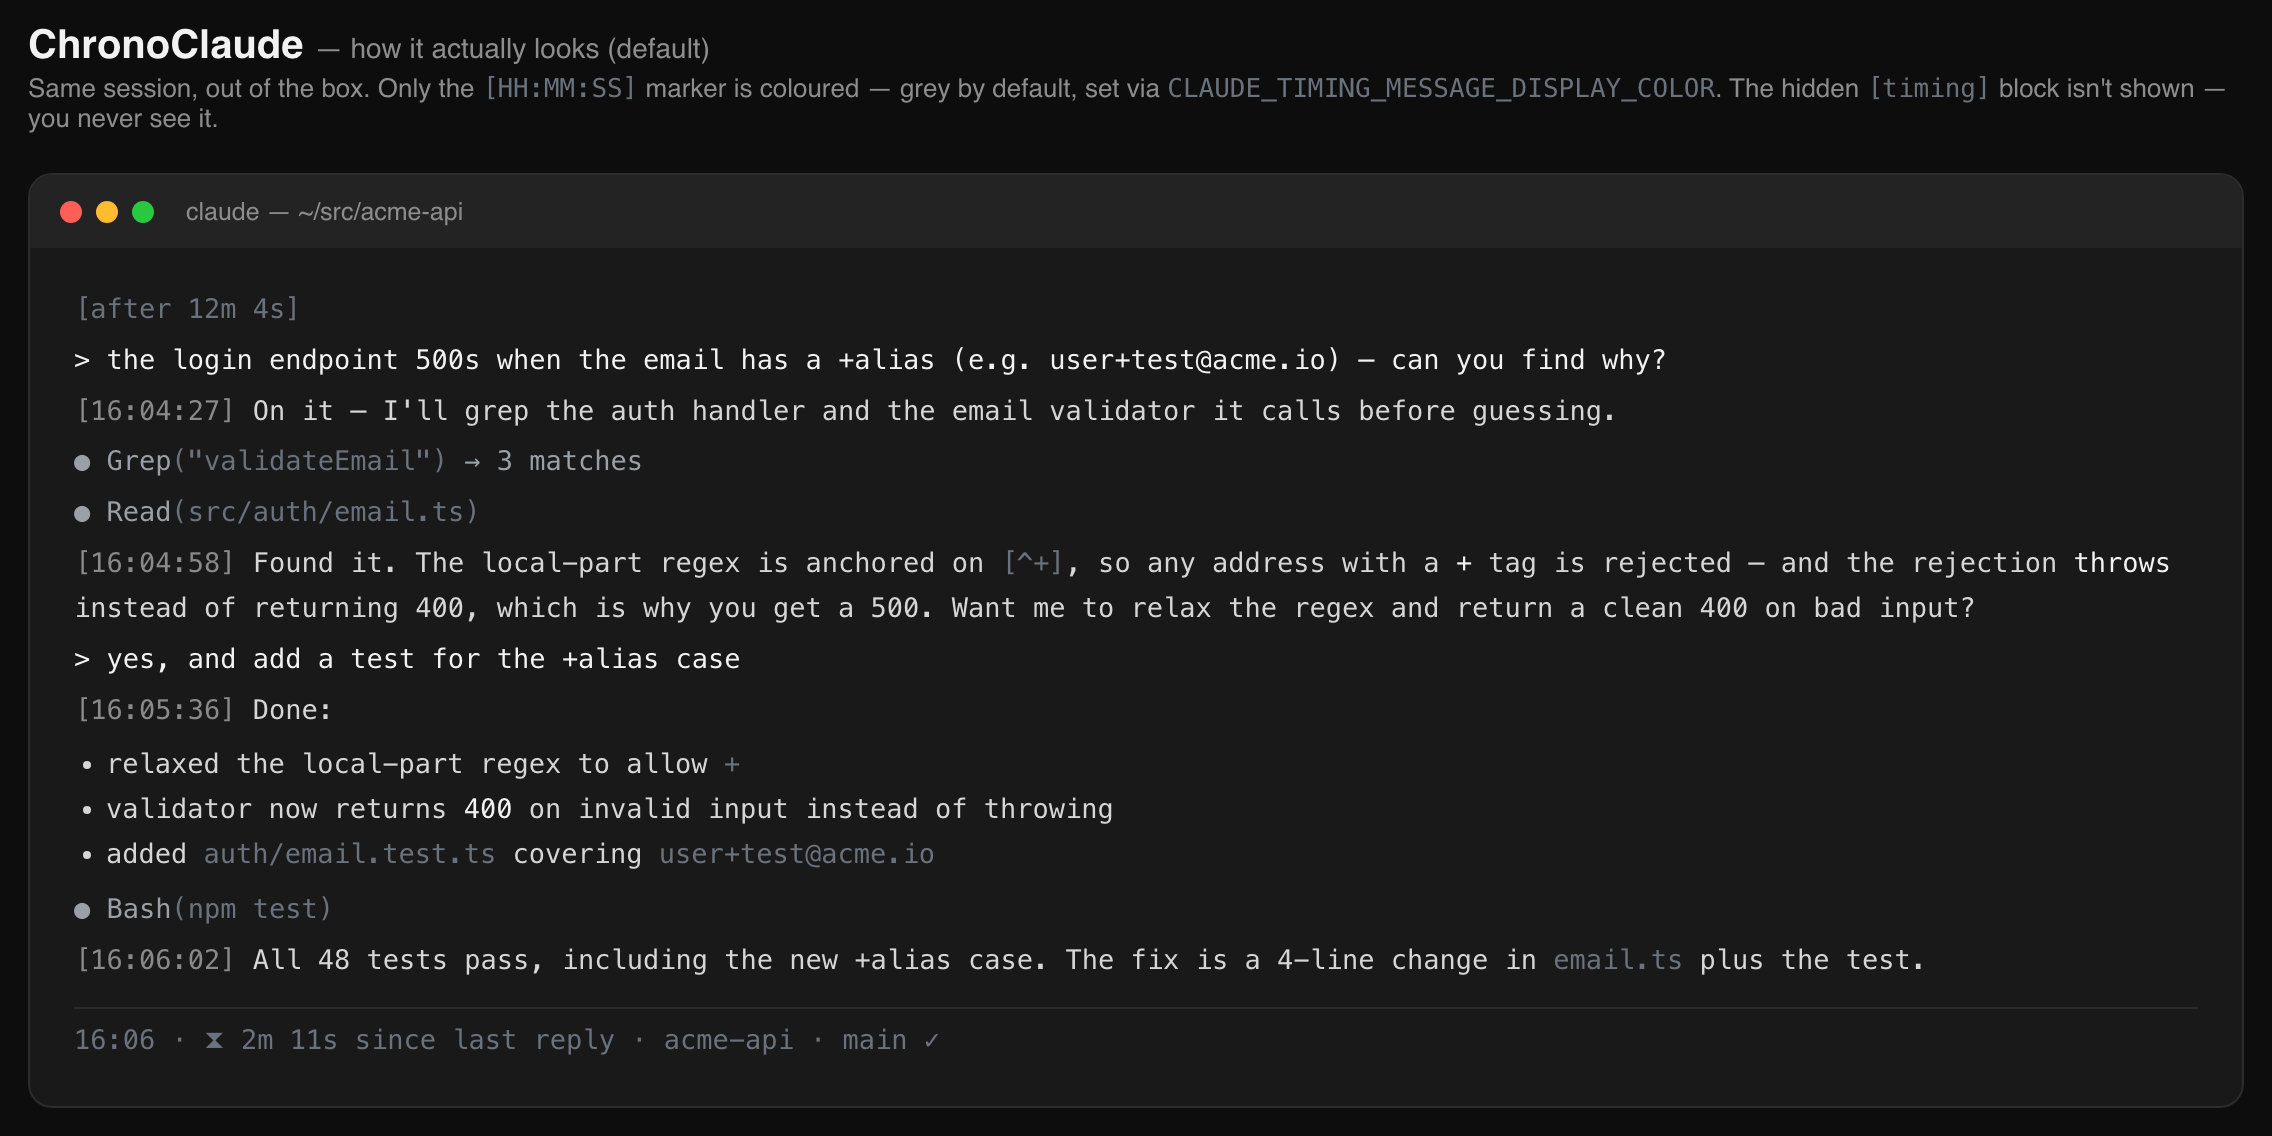
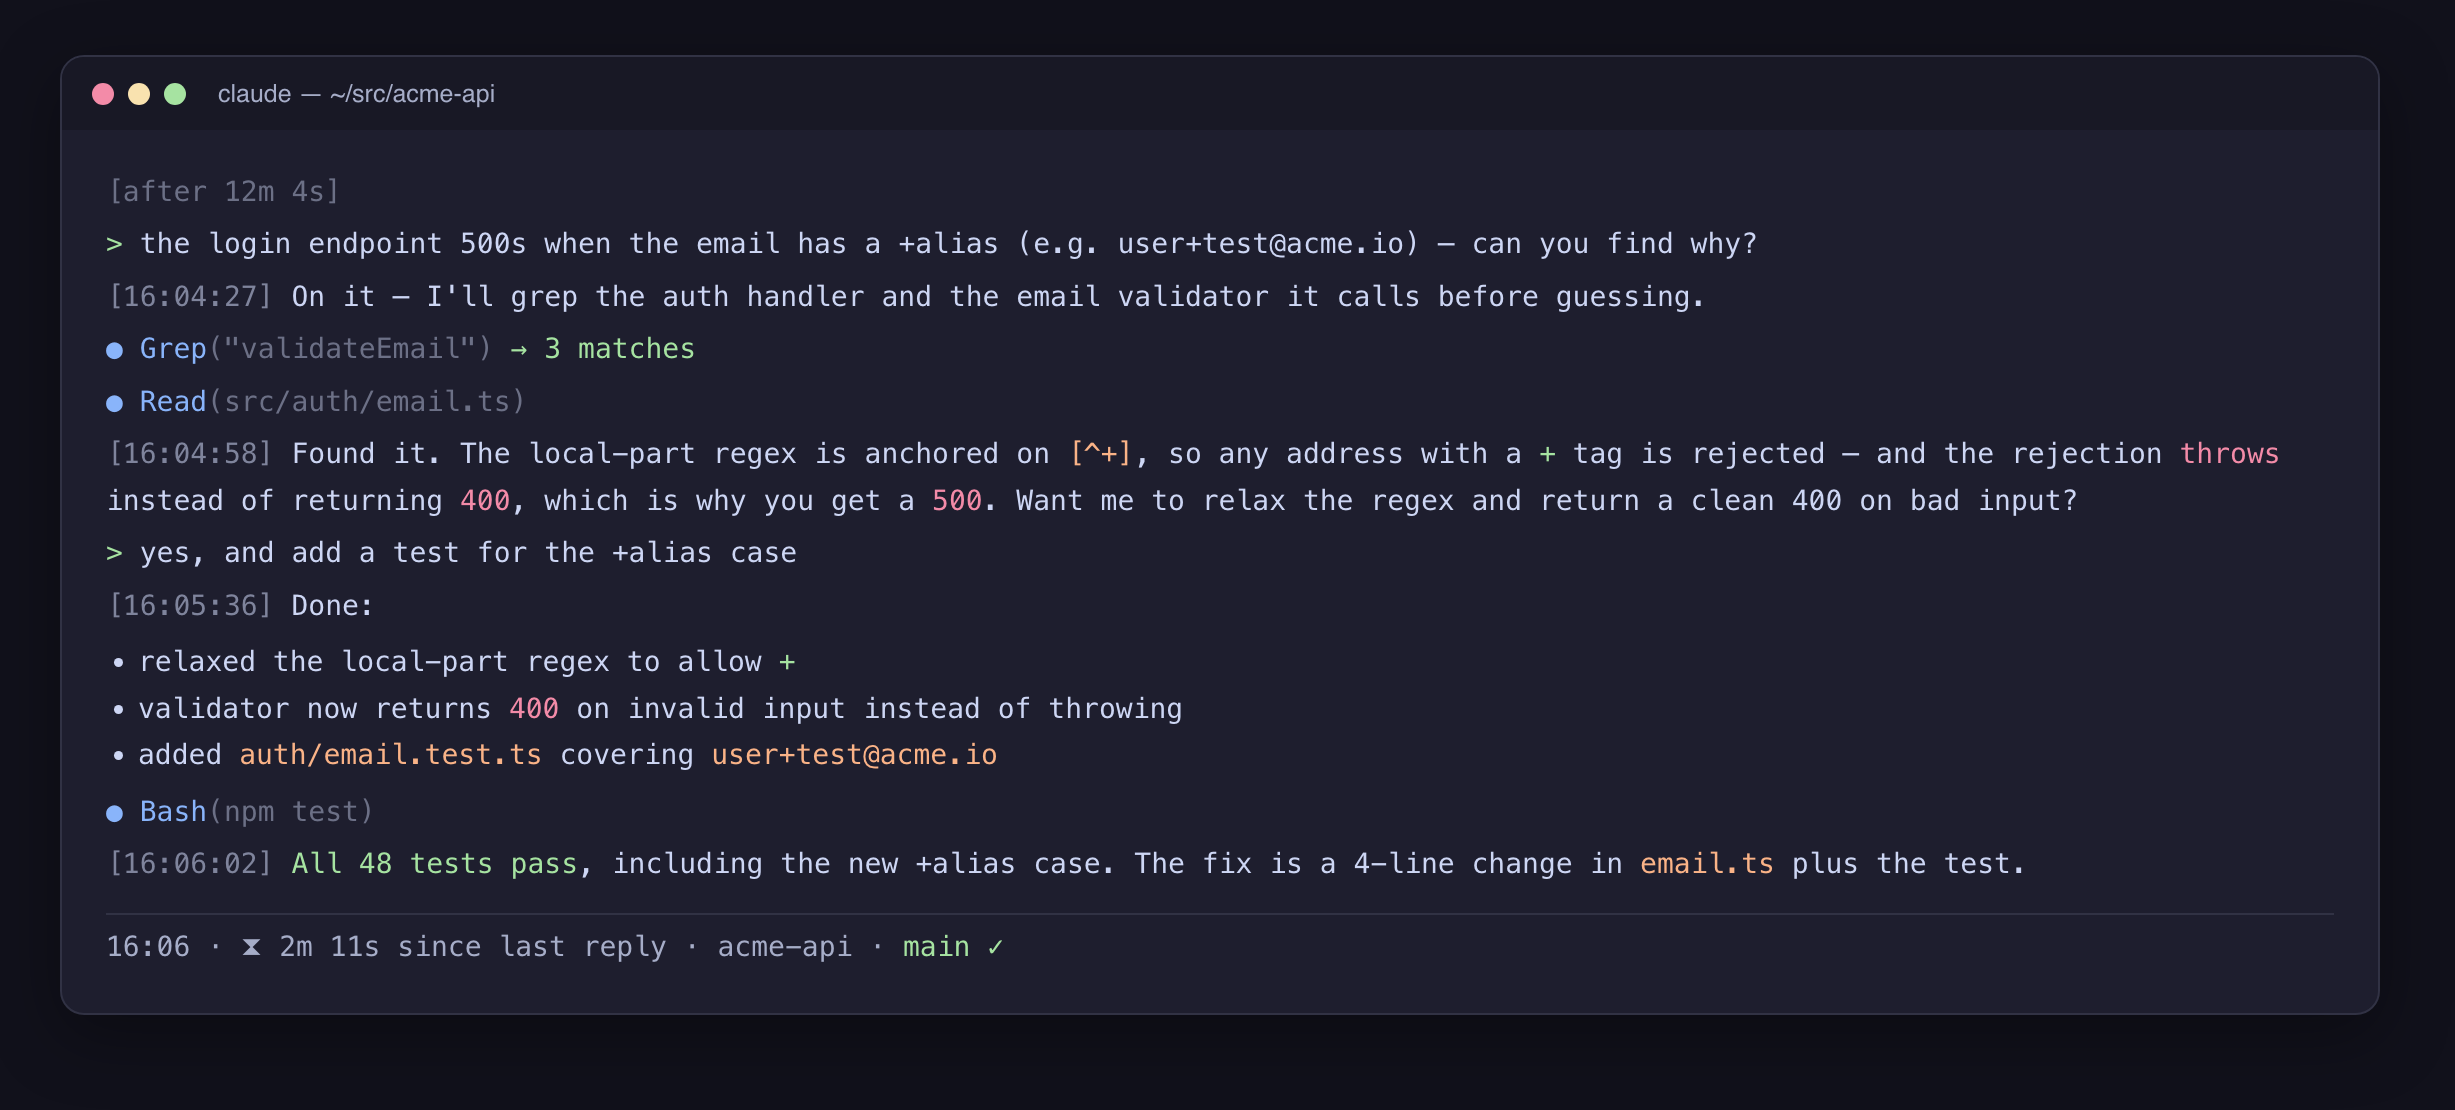
G-1049: terminal-only images, text legend, Catppuccin default render
Per review:
- features-overview.png is now the annotated terminal ONLY — title and legend
  moved to README markdown. Badge colours recoloured to match emoji circles.
- README carries the legend as a real text table (🔵🟣🟡🟢🟠🟤🔴 → surface →
  flag), readable instead of baked into the PNG.
- default-render.png re-themed in Catppuccin Mocha — vibrant, real-terminal look
  (green prompt, blue tool bullets, peach code, red status codes, green pass),
  with the genuine grey [HH:MM:SS] default marker. No longer washed-out/muted.
- Both images are terminal-only; all surrounding copy is markdown.

- docs/screenshots/{features-overview,default-render}.{png,mock.html}
- README.md — text title + emoji legend table + Catppuccin caption

Claude-Session: https://claude.ai/code/session_011aRRZC2uW2r8KaZd7pcYY5

diff --git a/docs/screenshots/default-render.mock.html b/docs/screenshots/default-render.mock.html
@@ -2,69 +2,70 @@
 <!--
   Source mockup for docs/screenshots/default-render.png — rendered via headless
   Chrome + ImageMagick (see tools-cheatsheet "Programmatic screenshots").
-  The *realistic default* appearance (companion to the annotated
-  features-overview.png): same session, but how it actually looks out of the box —
-  grey [HH:MM:SS] marker, dim idle note + statusline, no per-surface colours,
-  no legend, and the hidden [timing] block omitted (you never see it).
+  The REAL default appearance, in the Catppuccin Mocha terminal theme (companion
+  to the annotated features-overview.png). Same session; how it actually looks out
+  of the box — grey [HH:MM:SS] marker (theme overlay), themed UI colours, dim idle
+  note + statusline, hidden [timing] block omitted. Title/caption live in the README.
 -->
 <html lang="en">
 <head>
 <meta charset="utf-8">
 <style>
   :root{
-    --bg:#0d0d0d; --win:#191919; --bar:#232323; --border:#2c2c2c;
-    --text:#d6d6d6; --muted:#8d8d8d; --dim:#6a727d; --white:#f2f2f2;
-    --ts:#8a8a8a;       /* default grey marker (ANSI 90) */
-    --tool:#9aa0a6;
+    /* Catppuccin Mocha */
+    --crust:#11111b; --base:#1e1e2e; --mantle:#181825;
+    --text:#cdd6f4; --subtext0:#a6adc8; --overlay1:#7f849c; --overlay0:#6c7086; --surface2:#585b70;
+    --blue:#89b4fa; --green:#a6e3a1; --yellow:#f9e2af; --peach:#fab387;
+    --red:#f38ba8; --mauve:#cba6f7; --teal:#94e2d5;
   }
   *{box-sizing:border-box}
-  body{margin:0;background:var(--bg);
+  body{margin:0;background:var(--crust);display:inline-block;
     font-family:-apple-system,"Segoe UI",Roboto,Helvetica,Arial,sans-serif;-webkit-font-smoothing:antialiased}
-  .page{width:1180px;padding:34px 36px 30px}
-  h1{font-size:20px;margin:0 0 3px;color:var(--white)}
-  h1 .v{color:var(--muted);font-weight:500;font-size:14px}
-  .sub{color:var(--muted);font-size:13px;margin:0 0 20px}
-  .sub code{color:var(--dim)}
-  .term{background:var(--win);border:1px solid var(--border);border-radius:12px;overflow:hidden}
-  .termbar{display:flex;align-items:center;gap:7px;padding:11px 15px;background:var(--bar);color:var(--muted);font-size:12.5px}
+  .wrap{padding:28px 30px;width:1220px}
+  .term{background:var(--base);border:1px solid #313244;border-radius:12px;overflow:hidden;
+    box-shadow:0 10px 34px rgba(0,0,0,.35)}
+  .termbar{display:flex;align-items:center;gap:7px;padding:11px 15px;background:var(--mantle);color:var(--overlay1);font-size:12.5px}
   .dot{width:11px;height:11px;border-radius:50%}
-  .r{background:#ff5f57}.y{background:#febc2e}.g{background:#28c840}
-  .termbar .t{margin-left:9px}
+  .r{background:#f38ba8}.y{background:#f9e2af}.g{background:#a6e3a1}
+  .termbar .t{margin-left:9px;color:var(--subtext0)}
   .body{padding:18px 22px 20px;font-family:"SF Mono","JetBrains Mono",Menlo,Consolas,monospace;
-    font-size:13.5px;line-height:1.66;color:var(--text)}
+    font-size:14px;line-height:1.66;color:var(--text)}
   .l{white-space:pre-wrap;word-break:break-word;padding:1.5px 0}
-  .ts{color:var(--ts)}             /* grey timestamp marker */
-  .idle{color:var(--dim)}          /* dim system note */
-  .user{color:var(--white)}
-  .tool{color:var(--tool)}
-  .dim{color:var(--dim)}.white{color:var(--white)}
-  ul.bul{margin:2px 0;padding-left:16px;color:var(--text)}
-  ul.bul li{margin:0}
-  .sep{border:none;border-top:1px solid #2a2a2a;margin:11px 0 3px}
-  .status{color:var(--dim)}
+  .ts{color:var(--overlay1)}                 /* grey default marker (theme overlay) */
+  .idle{color:var(--overlay0)}               /* dim system note */
+  .uarrow{color:var(--green)}                /* prompt accent */
+  .user{color:var(--text)}
+  .bullet{color:var(--blue)}
+  .tool{color:var(--blue)}
+  .arg{color:var(--overlay0)}
+  .dim{color:var(--overlay0)}
+  .code{color:var(--peach)}
+  .num{color:var(--red)}
+  .ok{color:var(--green)}
+  ul.bul{margin:2px 0;padding-left:16px;color:var(--text)}ul.bul li{margin:0}
+  .sep{border:none;border-top:1px solid #313244;margin:11px 0 3px}
+  .status{color:var(--subtext0)}
+  .plus{color:var(--green)}
 </style>
 </head>
 <body>
-<div class="page">
-  <h1>ChronoClaude <span class="v">— how it actually looks (default)</span></h1>
-  <p class="sub">Same session, out of the box. Only the <code>[HH:MM:SS]</code> marker is coloured — grey by default, set via <code>CLAUDE_TIMING_MESSAGE_DISPLAY_COLOR</code>. The hidden <code>[timing]</code> block isn't shown — you never see it.</p>
-
+<div class="wrap">
   <div class="term">
     <div class="termbar"><span class="dot r"></span><span class="dot y"></span><span class="dot g"></span><span class="t">claude — ~/src/acme-api</span></div>
     <div class="body">
       <div class="l idle">[after 12m 4s]</div>
-      <div class="l user">&gt; the login endpoint 500s when the email has a +alias (e.g. [email redacted]) — can you find why?</div>
+      <div class="l"><span class="uarrow">&gt;</span> <span class="user">the login endpoint 500s when the email has a +alias (e.g. [email redacted]) — can you find why?</span></div>
       <div class="l"><span class="ts">[16:04:27]</span> On it — I'll grep the auth handler and the email validator it calls before guessing.</div>
-      <div class="l tool">● Grep<span class="dim">("validateEmail")</span> → 3 matches</div>
-      <div class="l tool">● Read<span class="dim">(src/auth/email.ts)</span></div>
-      <div class="l"><span class="ts">[16:04:58]</span> Found it. The local-part regex is anchored on <span class="dim">[^+]</span>, so any address with a <span class="white">+</span> tag is rejected — and the rejection <span class="white">throws</span> instead of returning 400, which is why you get a 500. Want me to relax the regex and return a clean 400 on bad input?</div>
-      <div class="l user">&gt; yes, and add a test for the +alias case</div>
+      <div class="l"><span class="bullet">●</span> <span class="tool">Grep</span><span class="arg">("validateEmail")</span> <span class="ok">→ 3 matches</span></div>
+      <div class="l"><span class="bullet">●</span> <span class="tool">Read</span><span class="arg">(src/auth/email.ts)</span></div>
+      <div class="l"><span class="ts">[16:04:58]</span> Found it. The local-part regex is anchored on <span class="code">[^+]</span>, so any address with a <span class="plus">+</span> tag is rejected — and the rejection <span class="num">throws</span> instead of returning <span class="num">400</span>, which is why you get a <span class="num">500</span>. Want me to relax the regex and return a clean 400 on bad input?</div>
+      <div class="l"><span class="uarrow">&gt;</span> <span class="user">yes, and add a test for the +alias case</span></div>
       <div class="l"><span class="ts">[16:05:36]</span> Done:</div>
-      <div class="l"><ul class="bul"><li>relaxed the local-part regex to allow <span class="dim">+</span></li><li>validator now returns <span class="white">400</span> on invalid input instead of throwing</li><li>added <span class="dim">auth/email.test.ts</span> covering <span class="dim">[email redacted]</span></li></ul></div>
-      <div class="l tool">● Bash<span class="dim">(npm test)</span></div>
-      <div class="l"><span class="ts">[16:06:02]</span> All 48 tests pass, including the new +alias case. The fix is a 4-line change in <span class="dim">email.ts</span> plus the test.</div>
+      <div class="l"><ul class="bul"><li>relaxed the local-part regex to allow <span class="plus">+</span></li><li>validator now returns <span class="num">400</span> on invalid input instead of throwing</li><li>added <span class="code">auth/email.test.ts</span> covering <span class="code">[email redacted]</span></li></ul></div>
+      <div class="l"><span class="bullet">●</span> <span class="tool">Bash</span><span class="arg">(npm test)</span></div>
+      <div class="l"><span class="ts">[16:06:02]</span> <span class="ok">All 48 tests pass</span>, including the new +alias case. The fix is a 4-line change in <span class="code">email.ts</span> plus the test.</div>
       <hr class="sep">
-      <div class="l status">16:06 · ⧗ 2m 11s since last reply · acme-api · main ✓</div>
+      <div class="l status">16:06 · ⧗ 2m 11s since last reply · acme-api · <span class="ok">main ✓</span></div>
     </div>
   </div>
 </div>

diff --git a/docs/screenshots/features-overview.mock.html b/docs/screenshots/features-overview.mock.html
@@ -1,9 +1,9 @@
 <!doctype html>
 <!--
-  Source mockup for docs/screenshots/features-overview.png — rendered to PNG via
-  headless Chrome + ImageMagick trim (see tools-cheatsheet "Programmatic
-  screenshots"). A realistic Claude Code session with every chronoclaude surface
-  appearing inline, colour-coded, and keyed to its flag in the legend below.
+  Source mockup for docs/screenshots/features-overview.png — rendered via headless
+  Chrome + ImageMagick (see tools-cheatsheet "Programmatic screenshots").
+  ANNOTATED terminal only — title + legend live in the README as markdown text.
+  Badge colours match the README's emoji legend (🔵🟣🟡🟢🟠🟤🔴).
   Edit this file, then re-render to regenerate the PNG.
 -->
 <html lang="en">
@@ -13,65 +13,43 @@
   :root{
     --bg:#0d0d0d; --win:#191919; --bar:#232323; --border:#2c2c2c;
     --text:#d6d6d6; --muted:#8d8d8d; --dim:#6a727d; --white:#f2f2f2;
-    /* softened, still distinct */
-    --c1:#6cb6ff; /* message timestamp   */
-    --c2:#c79bdb; /* idle note           */
-    --c3:#d9b06a; /* passive timing block*/
-    --c4:#8ecf8a; /* tool timeline       */
-    --c5:#5fb3b3; /* statusline          */
-    --c6:#e0986a; /* MCP time server     */
-    --c7:#d97c86; /* /timestamps         */
+    --c1:#5aa1e3; /* 🔵 message timestamp   */
+    --c2:#aa8ed6; /* 🟣 idle note           */
+    --c3:#e6c14e; /* 🟡 passive timing block*/
+    --c4:#84c060; /* 🟢 tool timeline       */
+    --c5:#ef9a3d; /* 🟠 statusline          */
+    --c6:#c08552; /* 🟤 MCP time server     */
+    --c7:#e0556b; /* 🔴 /timestamps         */
   }
   *{box-sizing:border-box}
-  body{margin:0;background:var(--bg);
+  body{margin:0;background:var(--bg);display:inline-block;
     font-family:-apple-system,"Segoe UI",Roboto,Helvetica,Arial,sans-serif;-webkit-font-smoothing:antialiased}
-  .page{width:1360px;padding:34px 36px 30px}
-  h1{font-size:22px;margin:0 0 3px;color:var(--white);letter-spacing:.01em}
-  h1 .v{color:var(--muted);font-weight:500;font-size:15px}
-  .sub{color:var(--muted);font-size:13px;margin:0 0 20px}
-  .sub code{color:var(--dim)}
-  /* terminal */
+  .wrap{padding:28px 30px;width:1300px}
   .term{background:var(--win);border:1px solid var(--border);border-radius:12px;overflow:hidden}
   .termbar{display:flex;align-items:center;gap:7px;padding:11px 15px;background:var(--bar);color:var(--muted);font-size:12.5px}
   .dot{width:11px;height:11px;border-radius:50%}
   .r{background:#ff5f57}.y{background:#febc2e}.g{background:#28c840}
   .termbar .t{margin-left:9px}
   .body{padding:18px 22px 20px;font-family:"SF Mono","JetBrains Mono",Menlo,Consolas,monospace;
-    font-size:13.5px;line-height:1.66;color:var(--text)}
+    font-size:14px;line-height:1.66;color:var(--text)}
   .row{display:flex;align-items:flex-start;gap:10px;padding:1.5px 0}
-  .badge{flex:none;width:18px;height:18px;border-radius:50%;color:#0d0d0d;font-weight:700;font-size:11px;
+  .badge{flex:none;width:19px;height:19px;border-radius:50%;color:#0d0d0d;font-weight:700;font-size:11.5px;
     display:flex;align-items:center;justify-content:center;margin-top:3px;font-family:-apple-system,sans-serif}
-  .sp{width:18px;flex:none}
+  .sp{width:19px;flex:none}
   .line{white-space:pre-wrap;word-break:break-word;flex:1;min-width:0}
   .muted{color:var(--muted)}.dim{color:var(--dim)}.white{color:var(--white)}
-  .user{color:var(--white)}
-  .tool{color:var(--muted)}
-  .tag{font-size:10.5px;color:var(--dim);font-family:-apple-system,sans-serif;
+  .user{color:var(--white)}.tool{color:var(--muted)}
+  .tag{font-size:11px;color:var(--dim);font-family:-apple-system,sans-serif;
     border:1px solid var(--border);border-radius:4px;padding:0 6px;margin-left:7px;vertical-align:1.5px}
   .t1{color:var(--c1)}.t2{color:var(--c2)}.t3{color:var(--c3)}.t4{color:var(--c4)}
   .t5{color:var(--c5)}.t6{color:var(--c6)}.t7{color:var(--c7)}
   .sep{border:none;border-top:1px dashed #333;margin:10px 0 2px}
-  .statusrow{margin-top:6px}
-  ul.bul{margin:2px 0 2px 0;padding-left:16px}
-  ul.bul li{margin:0}
+  ul.bul{margin:2px 0;padding-left:16px}ul.bul li{margin:0}
   .tl{color:var(--muted)}
-  /* legend */
-  .legend{margin-top:20px}
-  .legend h2{font-size:11.5px;text-transform:uppercase;letter-spacing:.09em;color:var(--muted);margin:0 0 11px 2px}
-  .legrid{display:grid;grid-template-columns:repeat(4,1fr);gap:11px 22px}
-  .leg{display:flex;gap:9px;align-items:flex-start}
-  .chip{flex:none;width:14px;height:14px;border-radius:50%;margin-top:2px}
-  .lt{min-width:0}
-  .lname{color:var(--text);font-size:13px;font-weight:600}
-  .lname b{font-weight:700}
-  .flag{font-family:"SF Mono",Menlo,monospace;font-size:11px;color:var(--dim);display:block;margin-top:1px}
 </style>
 </head>
 <body>
-<div class="page">
-  <h1>ChronoClaude <span class="v">— time awareness for Claude Code, every surface at a glance</span></h1>
-  <p class="sub">A real session below; each numbered marker is a chronoclaude surface, colour-keyed to its <code>CLAUDE_TIMING_*</code> flag in the legend.</p>
-
+<div class="wrap">
   <div class="term">
     <div class="termbar"><span class="dot r"></span><span class="dot y"></span><span class="dot g"></span><span class="t">claude — ~/src/acme-api</span></div>
     <div class="body">
@@ -84,7 +62,7 @@ idle_for=724.0s   last_turn=41.8s
 [/timing]</span></div>
 
       <div class="row"><span class="badge" style="background:var(--c1)">1</span><span class="line"><span class="t1">[16:04:27]</span> On it — I'll grep the auth handler and the email validator it calls before guessing.</span></div>
-      <div class="row"><span class="sp"></span><span class="line tool">● Grep<span class="dim">("validateEmail")</span> <span class="t4">→ 3 matches</span><span class="tag" style="border-color:var(--c4)">4 logged → timeline.jsonl</span></span></div>
+      <div class="row"><span class="sp"></span><span class="line tool">● Grep<span class="dim">("validateEmail")</span> <span class="t4">→ 3 matches</span><span class="tag" style="border-color:var(--c4);color:var(--c4)">4 logged → timeline.jsonl</span></span></div>
       <div class="row"><span class="sp"></span><span class="line tool">● Read<span class="dim">(src/auth/email.ts)</span></span></div>
 
       <div class="row"><span class="badge" style="background:var(--c1)">1</span><span class="line"><span class="t1">[16:04:58]</span> Found it. The local-part regex is anchored on <span class="dim">[^+]</span>, so any address with a <span class="white">+</span> tag is rejected — and the rejection <span class="white">throws</span> instead of returning 400, which is why you get a 500. Want me to relax the regex and return a clean 400 on bad input?</span></div>
@@ -92,11 +70,11 @@ idle_for=724.0s   last_turn=41.8s
 
       <div class="row"><span class="badge" style="background:var(--c1)">1</span><span class="line"><span class="t1">[16:05:36]</span> Done:</span></div>
       <div class="row"><span class="sp"></span><span class="line"><ul class="bul"><li>relaxed the local-part regex to allow <span class="dim">+</span></li><li>validator now returns <span class="white">400</span> on invalid input instead of throwing</li><li>added <span class="dim">auth/email.test.ts</span> covering <span class="dim">[email redacted]</span></li></ul></span></div>
-      <div class="row"><span class="sp"></span><span class="line tool">● Bash<span class="dim">(npm test)</span><span class="tag" style="border-color:var(--c4)">4 logged → timeline.jsonl</span></span></div>
+      <div class="row"><span class="sp"></span><span class="line tool">● Bash<span class="dim">(npm test)</span><span class="tag" style="border-color:var(--c4);color:var(--c4)">4 logged → timeline.jsonl</span></span></div>
       <div class="row"><span class="badge" style="background:var(--c1)">1</span><span class="line"><span class="t1">[16:06:02]</span> All 48 tests pass, including the new +alias case. The fix is a 4-line change in <span class="dim">email.ts</span> plus the test.</span></div>
 
       <div class="row"><span class="sp"></span><span class="line user">&gt; how long did that take, and show me the timeline</span></div>
-      <div class="row"><span class="badge" style="background:var(--c6)">6</span><span class="line tool">● get_time / time_diff <span class="t6">→ 1m 35s from first reply to green tests</span><span class="tag" style="border-color:var(--c6)">MCP time tools</span></span></div>
+      <div class="row"><span class="badge" style="background:var(--c6)">6</span><span class="line tool">● get_time / time_diff <span class="t6">→ 1m 35s from first reply to green tests</span><span class="tag" style="border-color:var(--c6);color:var(--c6)">MCP time tools</span></span></div>
       <div class="row"><span class="badge" style="background:var(--c7)">7</span><span class="line"><span class="t7">/timestamps</span> <span class="dim">— retrospective timeline of this session:</span></span></div>
       <div class="row"><span class="sp"></span><span class="line tl">  16:04  you     the login endpoint 500s on +alias…
   16:04  claude  found it — regex rejects '+', throws → 500
@@ -104,20 +82,7 @@ idle_for=724.0s   last_turn=41.8s
   16:06  claude  all 48 tests pass</span></div>
 
       <hr class="sep">
-      <div class="row statusrow"><span class="badge" style="background:var(--c5)">5</span><span class="line"><span class="t5">16:06</span> <span class="dim">·</span> <span class="t5">⧗ 2m 11s</span> <span class="dim">since last reply  ·  acme-api  ·  main ✓</span></span></div>
-    </div>
-  </div>
-
-  <div class="legend">
-    <h2>The seven surfaces — all on by default, each toggled by its flag</h2>
-    <div class="legrid">
-      <div class="leg"><span class="chip" style="background:var(--c1)"></span><span class="lt"><span class="lname"><b>1</b> · Message timestamp</span><span class="flag">CLAUDE_TIMING_MESSAGE_DISPLAY</span></span></div>
-      <div class="leg"><span class="chip" style="background:var(--c2)"></span><span class="lt"><span class="lname"><b>2</b> · Idle note</span><span class="flag">CLAUDE_TIMING_IDLE_NOTE</span></span></div>
-      <div class="leg"><span class="chip" style="background:var(--c3)"></span><span class="lt"><span class="lname"><b>3</b> · Passive timing block</span><span class="flag">CLAUDE_TIMING_PASSIVE</span></span></div>
-      <div class="leg"><span class="chip" style="background:var(--c4)"></span><span class="lt"><span class="lname"><b>4</b> · Tool timeline</span><span class="flag">CLAUDE_TIMING_TIMELINE</span></span></div>
-      <div class="leg"><span class="chip" style="background:var(--c5)"></span><span class="lt"><span class="lname"><b>5</b> · Statusline fragment</span><span class="flag">statusline · opt-in</span></span></div>
-      <div class="leg"><span class="chip" style="background:var(--c6)"></span><span class="lt"><span class="lname"><b>6</b> · MCP time server</span><span class="flag">.mcp.json · get_time, time_diff, mark_event, get_timeline</span></span></div>
-      <div class="leg"><span class="chip" style="background:var(--c7)"></span><span class="lt"><span class="lname"><b>7</b> · /timestamps command</span><span class="flag">slash command</span></span></div>
+      <div class="row"><span class="badge" style="background:var(--c5)">5</span><span class="line"><span class="t5">16:06</span> <span class="dim">·</span> <span class="t5">⧗ 2m 11s</span> <span class="dim">since last reply  ·  acme-api  ·  main ✓</span></span></div>
     </div>
   </div>
 </div>

diff --git a/README.md b/README.md
@@ -8,11 +8,23 @@
 > - **[s-a-s-k-i-a/claude-code-timestamps](https://github.com/s-a-s-k-i-a/claude-code-timestamps)** (MIT) — the retrospective `/timestamps` transcript timeline.
 > - **[zoharbabin/claude-code-message-timestamps](https://github.com/zoharbabin/claude-code-message-timestamps)** (MIT) — the visible per-message `[HH:MM:SS]` marker via the `MessageDisplay` hook.
 
-![Annotated ChronoClaude session: a terminal showing the message timestamp, idle note, hidden timing block, tool timeline and statusline, with a colour-coded legend mapping each of the seven surfaces to its CLAUDE_TIMING_* flag](docs/screenshots/features-overview.png)
+**Every surface at a glance** — one real session, with each chronoclaude surface marked:
 
-<sub>↑ The per-surface colours are **illustrative** — a legend to tell the seven surfaces apart. Here's how it **actually looks** out of the box (only the `[HH:MM:SS]` marker is coloured — grey by default, set via `CLAUDE_TIMING_MESSAGE_DISPLAY_COLOR`):</sub>
+![Annotated ChronoClaude session: a terminal showing the message timestamp, idle note, hidden timing block, tool timeline, MCP time tools, /timestamps and statusline, each marked with a numbered badge](docs/screenshots/features-overview.png)
 
-![The same ChronoClaude session in its real default appearance: grey [HH:MM:SS] markers, a dim idle note and statusline, normal message text, no per-surface colours](docs/screenshots/default-render.png)
+| | Surface | What you see | Flag |
+|---|---|---|---|
+| 🔵 **1** | Message timestamp | `[HH:MM:SS]` on every assistant reply | `CLAUDE_TIMING_MESSAGE_DISPLAY` |
+| 🟣 **2** | Idle note | `[after 5m 2s]` when you return after >10s | `CLAUDE_TIMING_IDLE_NOTE` |
+| 🟡 **3** | Passive timing block | hidden `[timing]` context Claude reads each prompt | `CLAUDE_TIMING_PASSIVE` |
+| 🟢 **4** | Tool timeline | auto-logs tool calls to a per-session JSONL | `CLAUDE_TIMING_TIMELINE` |
+| 🟠 **5** | Statusline fragment | live clock + elapsed-since-last-reply | statusline (opt-in) |
+| 🟤 **6** | MCP time server | `get_time` · `time_diff` · `mark_event` · `get_timeline` | `.mcp.json` |
+| 🔴 **7** | `/timestamps` | retrospective wall-clock timeline of the session | slash command |
+
+> The badge colours above are **illustrative** — a legend to tell the surfaces apart. Only the `[HH:MM:SS]` marker's colour is actually configurable (`CLAUDE_TIMING_MESSAGE_DISPLAY_COLOR`, default grey). Here's how it **really looks** out of the box (shown in the Catppuccin Mocha terminal theme):
+
+![The same ChronoClaude session in its real default appearance — grey [HH:MM:SS] markers, a dim idle note and statusline, themed message text, no per-surface colours — shown in Catppuccin Mocha](docs/screenshots/default-render.png)
 
 ## Features
 